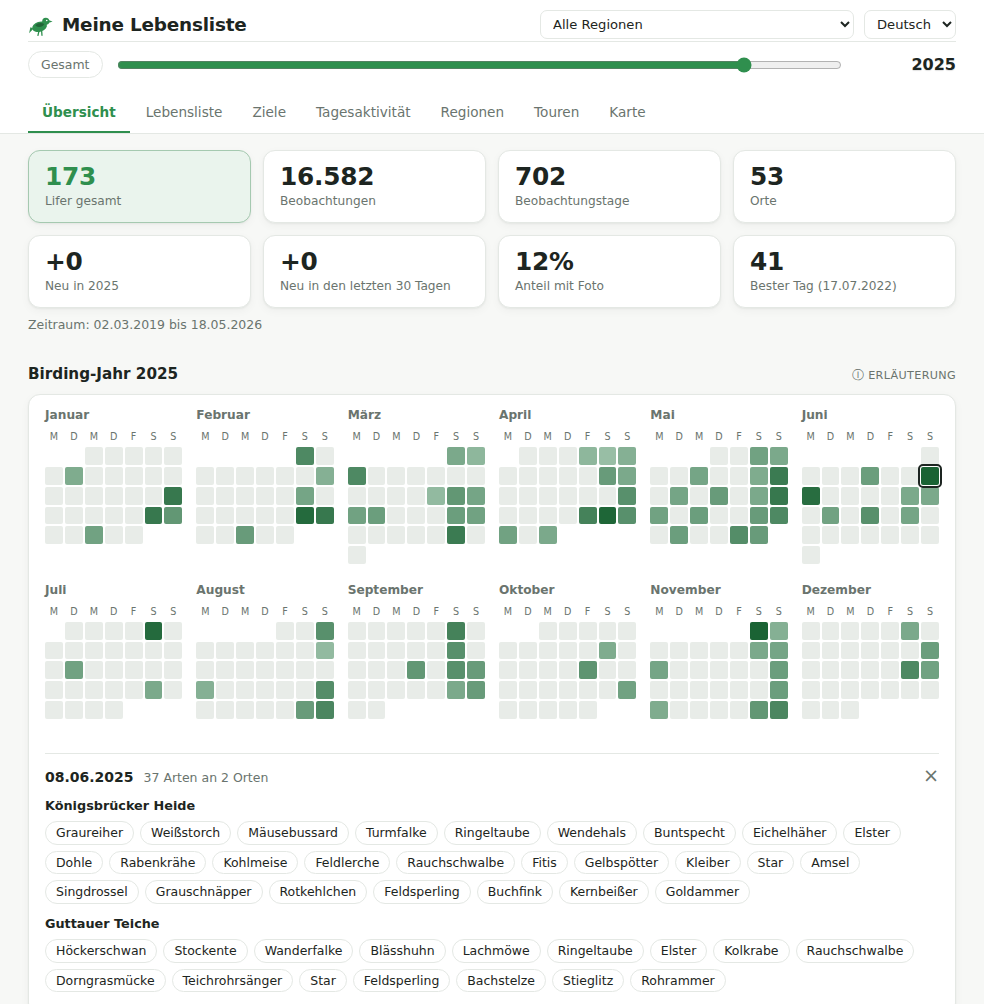
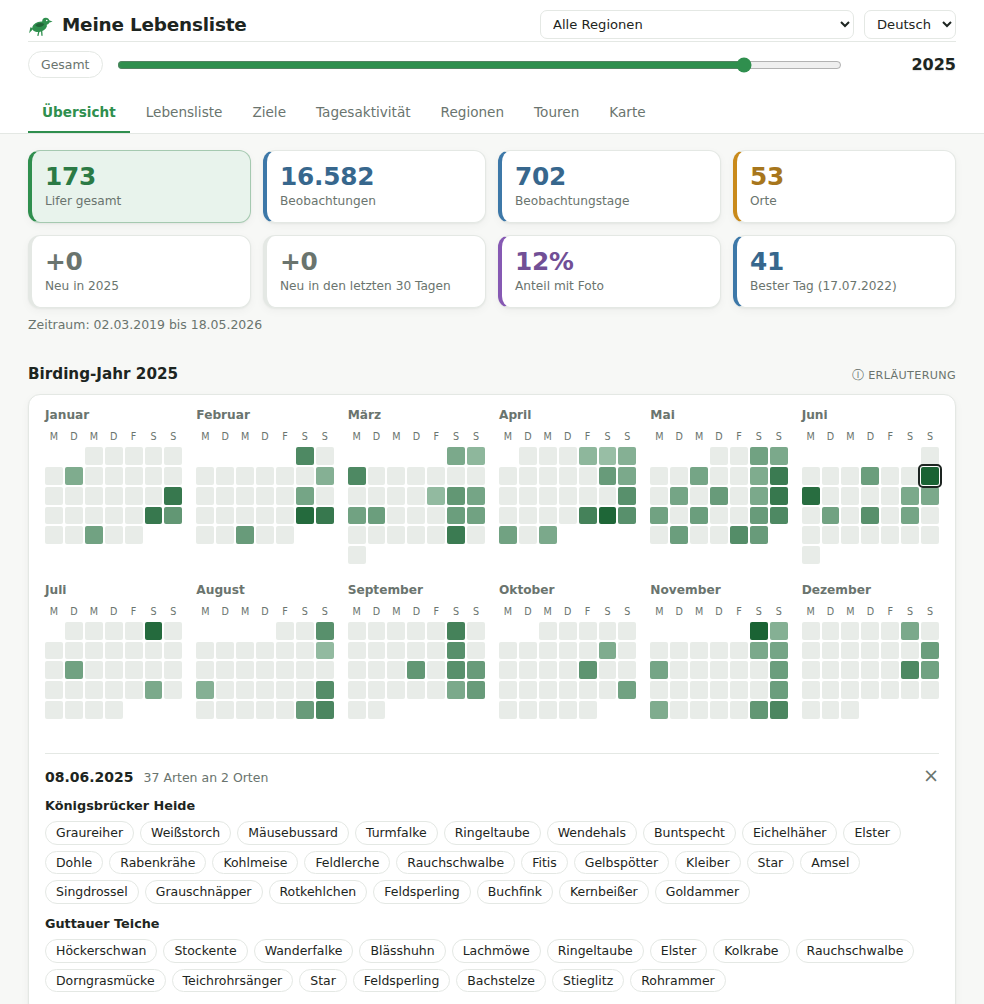
Feature: Colour the key-figure tiles by what they count
All key-figure tiles (overview, activity, tours) get a coloured left edge
and number in the colour the charts use for the same thing: species
green, activity blue, places and distances amber, photos violet. The
main tile takes a light tint of its colour, and a zero (such as "+0 new
in the last 30 days") stays grey so new things stand out. A kpiTile()
helper builds them all.

diff --git a/template.html b/template.html
@@ -98,11 +98,15 @@ details.tour-settings summary::before{content:"⚙ ";color:var(--muted)}
 .tour-path{font-size:.8rem;color:var(--muted);margin:2px 0 8px}
 .route-stop div{background:var(--accent);color:#fff;border:2px solid #fff;border-radius:50%;width:100%;height:100%;display:flex;align-items:center;justify-content:center;
   font:700 11px/1 system-ui,sans-serif;box-shadow:0 1px 4px rgba(0,0,0,.35)}
-.kpi{background:var(--card);border:1px solid var(--line);border-radius:12px;padding:12px 16px;box-shadow:var(--shadow)}
-.kpi b{display:block;font-size:1.55rem;line-height:1.15;font-variant-numeric:tabular-nums;letter-spacing:-.01em}
+/* key-figure tiles are coloured by what they count, in the colours the charts use for the same things
+   (see kpiTile()): species green, activity blue, places and distances amber, photos violet; a zero stays grey */
+.kpi{--tc:var(--muted);background:var(--card);border:1px solid var(--line);border-left:4px solid var(--tc);border-radius:12px;padding:12px 16px 12px 13px;box-shadow:var(--shadow)}
+.kpi.t-species{--tc:var(--accent)}.kpi.t-activity{--tc:var(--k3)}.kpi.t-places{--tc:var(--k2)}.kpi.t-photos{--tc:var(--k4)}
+.kpi.zero{--tc:var(--line)}
+.kpi b{display:block;font-size:1.55rem;line-height:1.15;font-variant-numeric:tabular-nums;letter-spacing:-.01em;color:color-mix(in srgb,var(--tc) 80%,var(--text))}
+.kpi.zero b{color:var(--muted)}
 .kpi span{color:var(--muted);font-size:.76rem;line-height:1.3;display:block;margin-top:3px}
-.kpi.main{background:var(--accent-soft);border-color:color-mix(in srgb,var(--accent) 35%,var(--line))}
-.kpi.main b{color:var(--accent)}
+.kpi.main{background:color-mix(in srgb,var(--tc) 11%,var(--card));border-color:color-mix(in srgb,var(--tc) 35%,var(--line));border-left-color:var(--tc)}
 .card{background:var(--card);border:1px solid var(--line);border-radius:12px;padding:12px 16px;overflow-x:auto;box-shadow:var(--shadow)}
 .toc{position:fixed;left:calc(50vw - 684px);top:calc(var(--header-h, 167px) + 14px);z-index:4;
   width:190px;max-height:calc(100vh - var(--header-h, 167px) - 34px);overflow-y:auto;padding:2px 0}

diff --git a/src/overview.js b/src/overview.js
@@ -148,14 +148,14 @@ function renderOverview() {
   const heatT = heatTable(list);
   $("tab-overview").innerHTML = `
     <div class="kpis k8">
-      <div class="kpi main"><b>${fmtN(stats.size)}</b><span>${t("speciesLife")}</span></div>
-      <div class="kpi"><b>${fmtN(list.length)}</b><span>${t("observations")}</span></div>
-      <div class="kpi"><b>${fmtN(days)}</b><span>${t("days")}</span></div>
-      <div class="kpi"><b>${fmtN(places)}</b><span>${t("places")}</span></div>
-      <div class="kpi"><b>+${newYear}</b><span>${t("newInYear", S.year)}</span></div>
-      <div class="kpi"><b>+${new30}</b><span>${t("newLast30")}</span></div>
-      <div class="kpi"><b>${photoPct}%</b><span>${t("photoShare")}</span></div>
-      <div class="kpi"><b>${bestCount}</b><span>${t("bestDay", fmtD(bestDay))}</span></div>
+      ${kpiTile(fmtN(stats.size), t("speciesLife"), "species", { main: true })}
+      ${kpiTile(fmtN(list.length), t("observations"), "activity")}
+      ${kpiTile(fmtN(days), t("days"), "activity")}
+      ${kpiTile(fmtN(places), t("places"), "places")}
+      ${kpiTile(`+${newYear}`, t("newInYear", S.year), "species", { zero: !newYear })}
+      ${kpiTile(`+${new30}`, t("newLast30"), "species", { zero: !new30 })}
+      ${kpiTile(`${photoPct}%`, t("photoShare"), "photos", { zero: !photoPct })}
+      ${kpiTile(bestCount, t("bestDay", fmtD(bestDay)), "activity")}
     </div>
     <p class="sub" style="margin-top:8px">${t("period")}: ${fmtD(first)} ${t("to")} ${fmtD(last)}</p>
     ${calendarSection(list, stats)}

diff --git a/src/data.js b/src/data.js
@@ -129,6 +129,10 @@ const $$ = sel => document.querySelector(sel);
 /** @param {string} sel @returns {any} */
 const $$all = sel => document.querySelectorAll(sel);
 const esc = s => String(s).replace(/[&<>"]/g, c => ({ "&": "&amp;", "<": "&lt;", ">": "&gt;", '"': "&quot;" }[c]));
+// a key-figure tile; `theme` colours it by what it counts ("species", "activity", "places", "photos"), `zero` greys it out
+/** @param {string|number} value @param {string} label @param {string} theme @param {{main?: boolean, zero?: boolean}} [opts] */
+const kpiTile = (value, label, theme, { main = false, zero = false } = {}) =>
+  `<div class="kpi t-${theme}${main ? " main" : ""}${zero ? " zero" : ""}"><b>${value}</b><span>${label}</span></div>`;
 const fmtN = n => n.toLocaleString(S.lang === "en" ? "en-GB" : "de-DE");
 // rounds for display but never claims 100% unless truly complete, or 0% when something is actually there
 const pctDisplay = (count, total) => !total ? 0 : count === 0 ? 0 : count === total ? 100 : Math.min(99, Math.max(1, Math.round(count / total * 100)));

diff --git a/src/tours.js b/src/tours.js
@@ -224,10 +224,10 @@ function renderTourOut() {
   }).join("");
   out.innerHTML = `
     <div class="kpis k4">
-      <div class="kpi main"><b>${fmtN(tours.length)}</b><span>${t("toursKCount")}</span></div>
-      <div class="kpi"><b>${fmtKm(km)}</b><span>${t("toursKKm")}</span></div>
-      <div class="kpi"><b>${fmtKm(longest.km)}</b><span>${t("toursKLongest", fmtD(longest.d))}</span></div>
-      <div class="kpi"><b>${richest.sp}</b><span>${t("toursKRichest", fmtD(richest.d))}</span></div>
+      ${kpiTile(fmtN(tours.length), t("toursKCount"), "activity", { main: true })}
+      ${kpiTile(fmtKm(km), t("toursKKm"), "places")}
+      ${kpiTile(fmtKm(longest.km), t("toursKLongest", fmtD(longest.d)), "places")}
+      ${kpiTile(richest.sp, t("toursKRichest", fmtD(richest.d)), "species")}
     </div>
     <h2>${t("toursTitle")}<small>${tours.length}</small></h2>
     <div class="card"><table><thead><tr>${tourTh("date", t("colDate"))}${tourTh("time", t("colTime"), "hide-sm")}${tourTh("dur", t("colDuration"), "num")}

diff --git a/src/activity.js b/src/activity.js
@@ -113,8 +113,8 @@ function renderActivity() {
   $("act-out").innerHTML = `
     ${infoText(t("actHelp", fmtN(timed.length), fmtN(scoped.length)))}
     <div class="kpis">
-      <div class="kpi main"><b>${fmtN(timed.length)}</b><span>${t("actKTimed")}</span></div>
-      <div class="kpi"><b>${hourLabel(peak)}</b><span>${t("actKPeak")}</span></div>
+      ${kpiTile(fmtN(timed.length), t("actKTimed"), "activity", { main: true })}
+      ${kpiTile(hourLabel(peak), t("actKPeak"), "activity")}
     </div>
     <h2 data-toc="${esc(t("tocActHour"))}">${t("actHourTitle")}<label class="ctl">${t("actCountBy")}<select id="a-metric" aria-label="${esc(t("ariaMetric"))}">${metricOptions}</select></label></h2>
     <div class="card" id="hour-card">${barChartSvg(series, hours, hours.map(h => hourLabel(h) + ": " + series[h]), 3)}</div>
